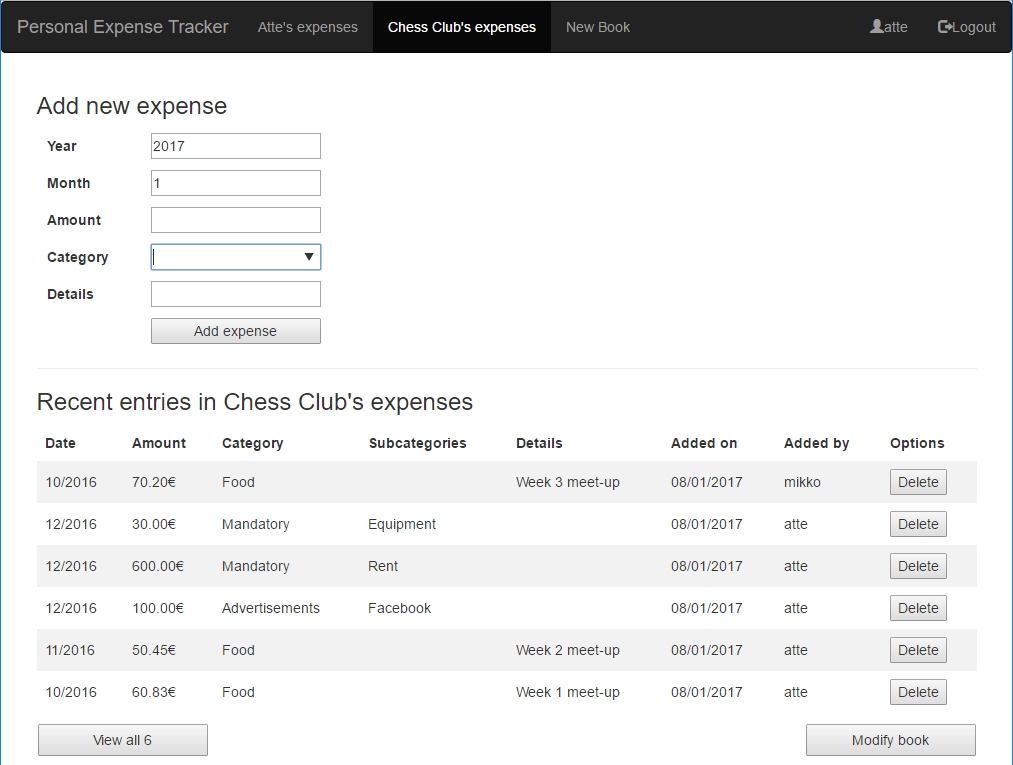
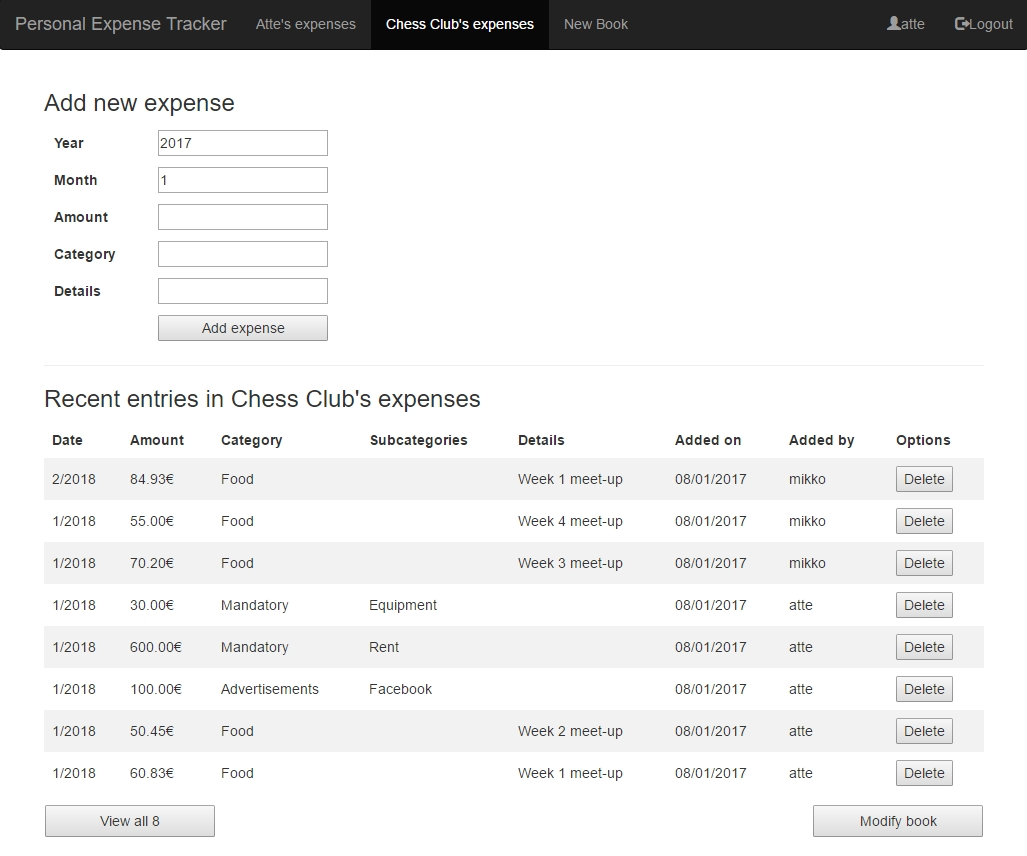
Screenshot

diff --git a/src/main/java/baobab/pet/config/StartupListener.java b/src/main/java/baobab/pet/config/StartupListener.java
@@ -45,21 +45,23 @@ public class StartupListener implements ApplicationListener<ContextRefreshedEven
         dao.setUserAsAdmin(atte);
         Book bookA = dao.createBook("Atte's expenses", atte);
         Book bookC = dao.createBook("Chess Club's expenses", atte);
-        dao.createExpense(2016, 10, bookC, "Food", "Week 1 meet-up", 6083, atte);
-        dao.createExpense(2016, 11, bookC, "Food", "Week 2 meet-up", 5045, atte);
-        dao.createExpense(2016, 12, bookC, "Advertisements/Facebook", "", 10000, atte);
-        dao.createExpense(2016, 12, bookC, "Mandatory/Rent", "", 60000, atte);
-        dao.createExpense(2016, 12, bookC, "Mandatory/Equipment", "", 3000, atte);
+        dao.createExpense(2018, 1, bookC, "Food", "Week 1 meet-up", 6083, atte);
+        dao.createExpense(2018, 1, bookC, "Food", "Week 2 meet-up", 5045, atte);
+        dao.createExpense(2018, 1, bookC, "Advertisements/Facebook", "", 10000, atte);
+        dao.createExpense(2018, 1, bookC, "Mandatory/Rent", "", 60000, atte);
+        dao.createExpense(2018, 1, bookC, "Mandatory/Equipment", "", 3000, atte);
 
         User mikko = dao.createUser("mikko", "masa");
         Book bookM = dao.createBook("Mikko's expenses", mikko);
-        dao.createExpense(2016, 10, bookC, "Food", "Week 3 meet-up", 7020, mikko);
-        dao.createExpense(2016, 11, bookM, "food", "",67, mikko);
-        dao.createExpense(2016, 12, bookM, "food", "", 55, mikko);
-        dao.createExpense(2016, 12, bookM, "food", "", 99, mikko);
-        dao.createExpense(2016, 12, bookM, "entertainment", "", 10, mikko);
-        dao.createExpense(2016, 12, bookM, "entertainment", "", 30, mikko);
-        dao.createExpense(2016, 12, bookM, "entertainment", "", 30, mikko);
+        dao.createExpense(2018, 1, bookC, "Food", "Week 3 meet-up", 7020, mikko);
+        dao.createExpense(2018, 1, bookC, "Food", "Week 4 meet-up", 5500, mikko);
+        dao.createExpense(2018, 2, bookC, "Food", "Week 1 meet-up", 8493, mikko);
+        dao.createExpense(2018, 1, bookM, "food", "",67, mikko);
+        dao.createExpense(2018, 1, bookM, "food", "", 55, mikko);
+        dao.createExpense(2018, 1, bookM, "food", "", 99, mikko);
+        dao.createExpense(2018, 1, bookM, "entertainment", "", 10, mikko);
+        dao.createExpense(2018, 1, bookM, "entertainment", "", 30, mikko);
+        dao.createExpense(2018, 1, bookM, "entertainment", "", 30, mikko);
 
         User marianne = dao.createUser("marianne", "1");
     }
